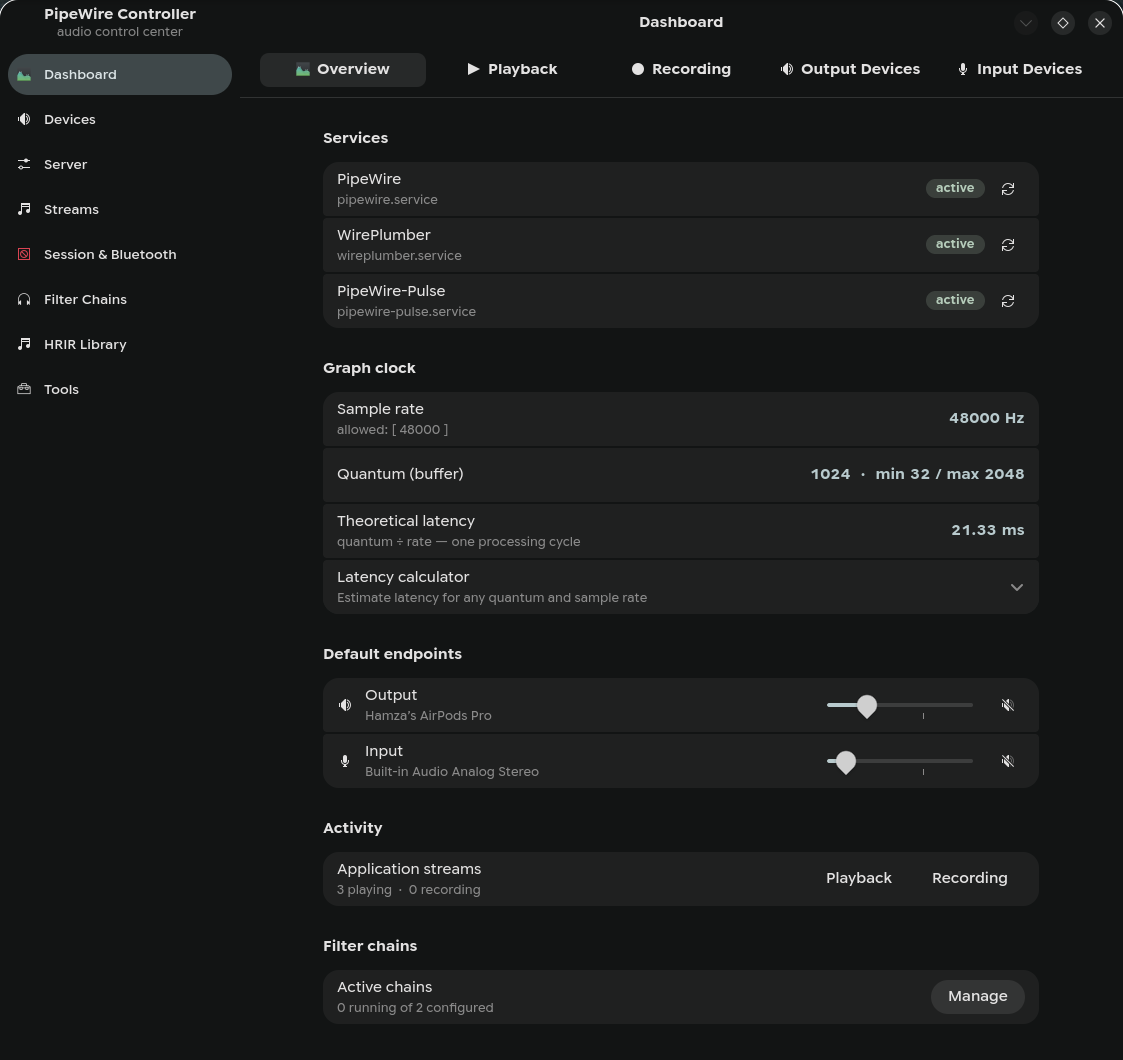
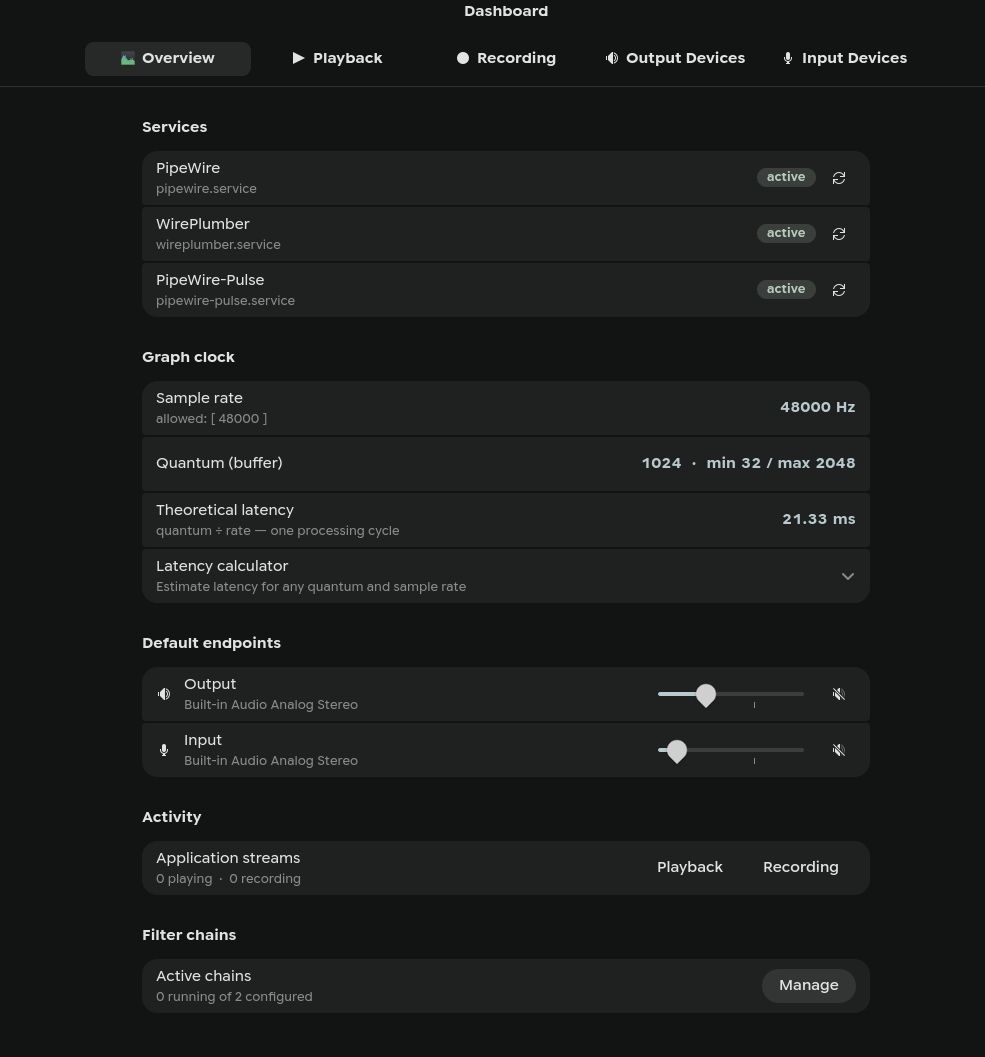
README: refresh gallery with in-action dashboard shots
New hero overview, LED-meter and stepped volume styles on real
output devices (hardware + virtual sinks), and a live playback tab
with streams routed into Easy Effects.

diff --git a/README.md b/README.md
@@ -8,12 +8,16 @@ surround — exposed as toggles and dropdowns.
 ![Dashboard — Overview](screenshots/dashboard-overview.png)
 
 <p align="center">
-  <img src="screenshots/dashboard-led-meter.png" alt="Playback tab with LED-meter volume style" width="49.5%">
-  <img src="screenshots/filter-chains.png" alt="Filter Chains — per-chain processes with independent toggles" width="49.5%">
+  <img src="screenshots/output-devices-led-meter.png" alt="Output Devices with LED-meter volume style — hardware and virtual sinks side by side" width="45%">
+  <img src="screenshots/output-devices-stepped.png" alt="Output Devices with stepped volume style and port selector" width="53%">
 </p>
 <p align="center">
-  <img src="screenshots/hrir-library.png" alt="HRIR Library — import, analyze and classify impulse responses" width="52%">
-  <img src="screenshots/session-bluetooth.png" alt="Session and Bluetooth — device power and Bluetooth codec policy" width="43%">
+  <img src="screenshots/dashboard-playback.png" alt="Playback tab — move any stream between devices live" width="44%">
+  <img src="screenshots/session-bluetooth.png" alt="Session and Bluetooth — device power and Bluetooth codec policy" width="52.5%">
+</p>
+<p align="center">
+  <img src="screenshots/hrir-library.png" alt="HRIR Library — import, analyze and classify impulse responses" width="45%">
+  <img src="screenshots/filter-chains.png" alt="Filter Chains — per-chain processes with independent toggles" width="52%">
 </p>
 <p align="center">
   <img src="screenshots/streams.png" alt="Stream processing defaults — upmix, LFE, resampler and advanced knobs" width="46%">
@@ -28,7 +32,7 @@ surround — exposed as toggles and dropdowns.
 </p>
 
 More screenshots:
-[Playback tab](screenshots/dashboard-playback.png) ·
+[Playback tab, LED meters](screenshots/dashboard-led-meter.png) ·
 [Output Devices with ports](screenshots/output-devices.png) ·
 [Recording tab](screenshots/dashboard-recording.png) ·
 [Surround Setup wizard](screenshots/surround-setup.png) ·